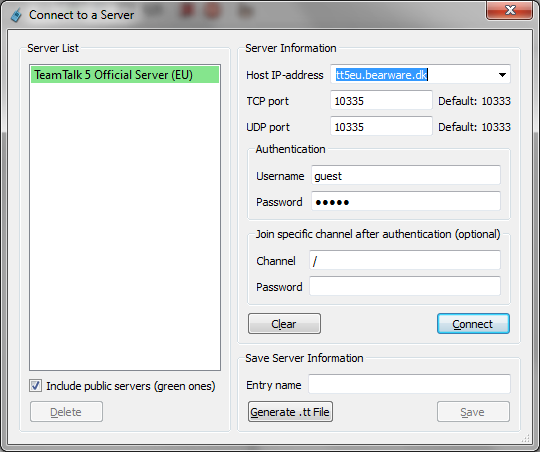
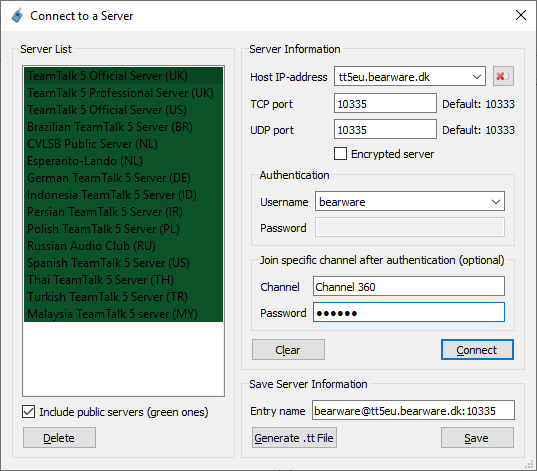
Explained BearWare.dk weblogin

diff --git a/Documentation/TeamTalk/userinterface.md b/Documentation/TeamTalk/userinterface.md
@@ -295,13 +295,33 @@ green.
 If you manually want to connect to a TeamTalk server then the person
 who is running the server must provide the information for the fields
 Host IP-address, TCP port and UDP port along with a user account
-containing both username and password.
+containing both username and password. If the server is hosted on an
+encrypted connection then the *Encrypted server* option must be
+checked.
 
-If the username to log on to the server is "facebook" then a dialog
-will pop up asking you to log into Facebook. For more information on
-Facebook login read section @ref fbuseraccount. If at some point you
-want to log into a different Facebook account then hit Escape when the
-Facebook login dialog appears.
+### Authentication
+
+Most TeamTalk server owners set up their own usernames and passwords
+for users. Some TeamTalk server also support publicly available login
+systems provided by BearWare.dk and Facebook.
+
+- BearWare.dk Web Login
+  - If the username to log on to a server is "bearware" then you must
+    register a username on BearWare.dk and use this to log on to the
+    server.
+
+- Facebook Login
+  - If the username to log on to the server is "facebook" then a
+    dialog will pop up asking you to log into Facebook. For more
+    information on Facebook login read section @ref fbuseraccount. If
+    at some point you want to log into a different Facebook account
+    then hit Escape when the Facebook login dialog appears.
+
+Learn more about setting up user accounts by read the section on
+[configuring TeamTalk servers](@ref teamtalkserver) or the section
+about [User Accounts](@ref useraccountsdlg).
+
+### Join or create specific channel
 
 To join a specific channel once you have logged on to the server can
 be done by filling out Channel and Password fields. Once you have
@@ -310,9 +330,7 @@ server to the Server List by filling the Entry name field and
 afterwards click **Save**. Finally click **Connect** to connect to the
 server.
 
-Learn more about setting up user accounts by read the section on
-[configuring TeamTalk servers](@ref teamtalkserver) or the section
-about [User Accounts](@ref useraccountsdlg).
+### Generate .tt File
 
 If you want others to connect to the same TeamTalk server as you, you
 can press **Generate .tt File** so you'll generate a file you can email to

diff --git a/Documentation/TeamTalk/preferences.md b/Documentation/TeamTalk/preferences.md
@@ -28,7 +28,13 @@ transmit audio.
 - **Gender**
   - This option selects whether other users should see you as a Male
     or Female.
-  
+
+- **BearWare.dk Web Login ID**
+  - A BearWare.dk web login is required if a TeamTalk server specifies
+    that you must [log on with the username "bearware"](@ref
+    connectdlg). You can create a BearWare.dk web login by clicking
+    the *Activate* button.
+
 - **Set away status after...**
   - If non-zero this option will automatically set you as away after
     the specified number of seconds.
